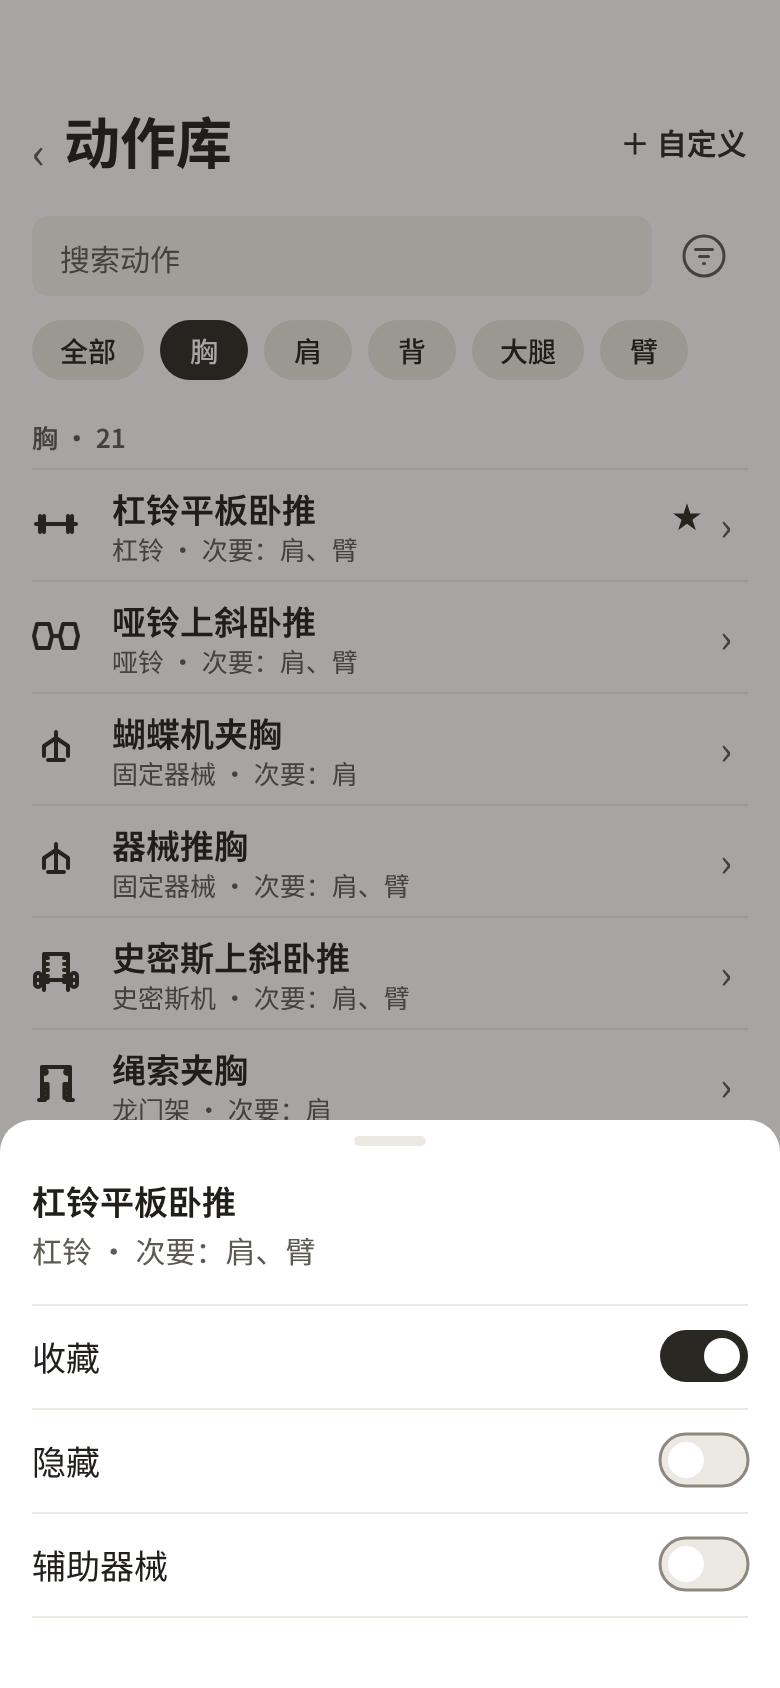
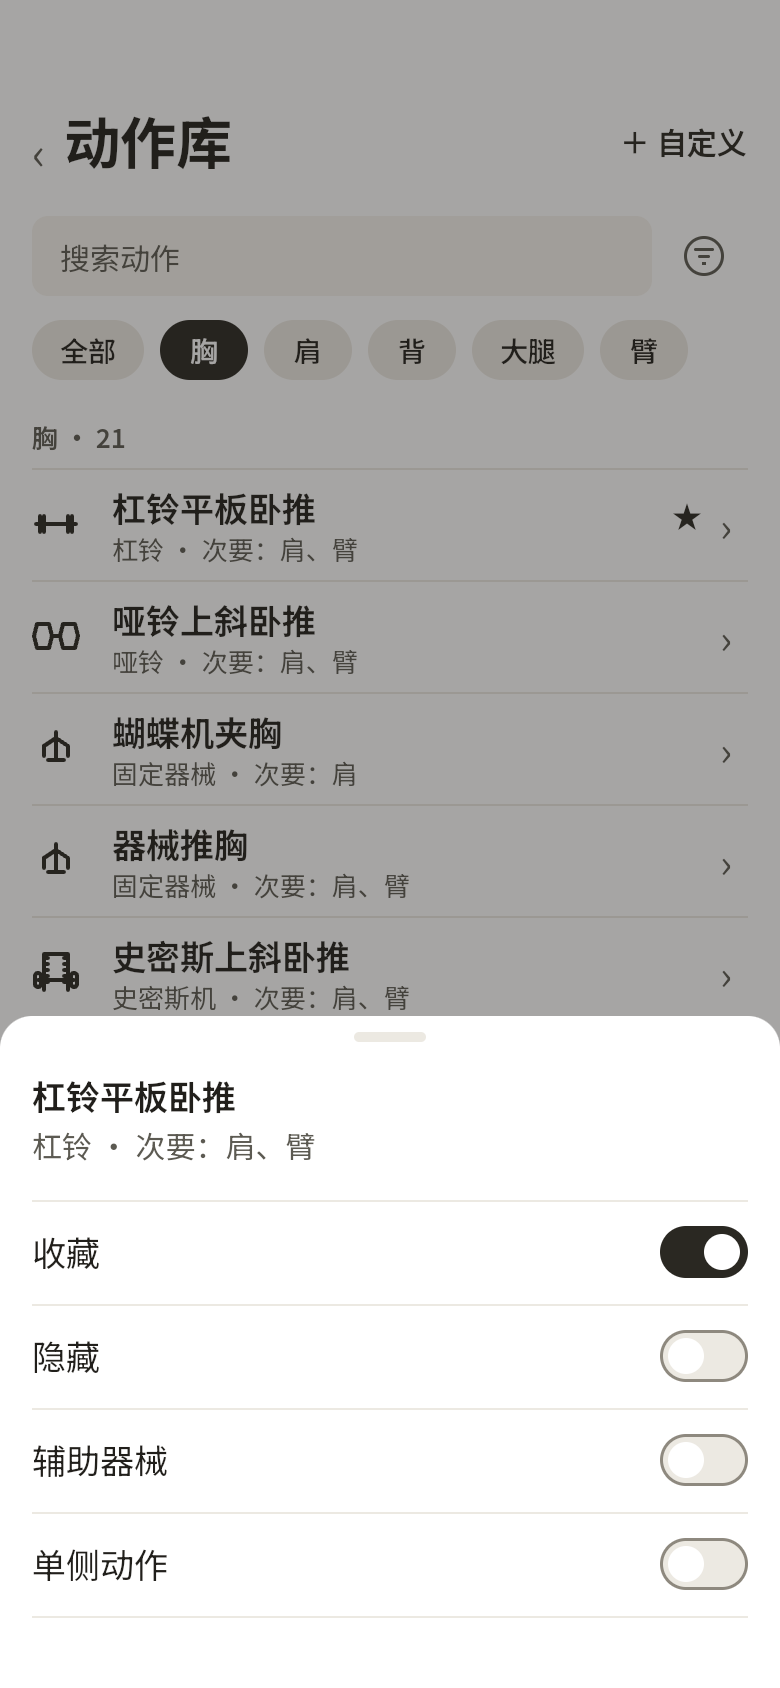
design(p7): backfill 单侧动作 on board 34 and drop ▾ from B-b section header (S1-D95, S1-D98)
Board 34 now shows the P0-D8 unilateral toggle row and a note that 编辑动作 is
custom-only; B-b's section header loses the ▾ that neither iOS nor Android
shows. Both PNGs re-exported at 2x; README and screens.md updated.

diff --git a/design/design-system/README.md b/design/design-system/README.md
@@ -48,7 +48,7 @@ Phase 6.5 人工审核（T063）发现 8 个核心界面需要结构调整，并
 | `28-share-settings-v2`、`29-share-preview` | D7 分享报告设置页（单次训练）与预览页。走查修订 2026-10-22（C15）：预览页卡片之后常驻整宽次按钮「完成」，点了回到今日页（Penpot `D7b-r`） | 取代 12 |
 | `30-training-v2`、`31-add-exercise-sheet` | D8 方案 B：「＋ 新建分区」就地入口；「应用模板」并入添加动作面板；「另存为模板」移到训练结束后的总结页 | 取代 11 |
 | `32-training-history-v2` | D9 训练历史筛选结果列表 | 取代 07 |
-| `33-exercise-filter-sheet`、`34-exercise-options-sheet` | T069c（2026-09-27 产品负责人选定「筛选面板」方案）：动作库搜索框右侧筛选图标 → 筛选面板（器械、显示已隐藏）；点动作行 → 动作选项面板（收藏 / 隐藏 / 辅助器械）。`20-exercise-library` 同步加上筛选图标并重新导出 | 补充 20 |
+| `33-exercise-filter-sheet`、`34-exercise-options-sheet` | T069c（2026-09-27 产品负责人选定「筛选面板」方案）：动作库搜索框右侧筛选图标 → 筛选面板（器械、显示已隐藏）；点动作行 → 动作选项面板（收藏 / 隐藏 / 辅助器械 / 单侧动作；「编辑动作」行只对自定义动作显示）。2026-11-13 回填（S1-D98）：34 补画 P0-D8「单侧动作」开关行（同辅助器械行结构，面板上移 52 pt），并在画板下方加状态说明后重新导出 2 倍图。`20-exercise-library` 同步加上筛选图标并重新导出 | 补充 20 |
 | `35-session-detail` | D12 训练记录（训练历史 → 点日期行；页头 2026-10-23 改为行内 `‹` + 页面内「训练记录」，§10 C18）：复用 `29-share-preview` 的分区（日期 / 标题 / 学员、三项统计、训练部位、动作每行 3 组、课后总结），不带页脚；下方「编辑训练重点 ›」「另存为模板 ›」操作行（另存为模板用底部面板命名）、只读说明，底部固定「生成训练报告」（2026-09-28 产品负责人反馈原页面像表格、字体不齐） | 补充 32 |
 | `36-new-package-stepper`、`37-manual-adjustment-stepper` | D13 数字步进器（2026-09-29 产品负责人批准方案 C「整体胶囊」，T064 发现新建课包「总课时数」与人工调整「课时数」仍为 iOS 系统 `Stepper`）；两页页头同时改为 `‹` + 页面内 `titleLarge`（与 04、训练趋势一致）。新建课包的开始 / 结束日期行与 02 相同：标签-值两栏行，值为 `body`「yyyy年M月d日」（课包有效期可能跨年，保留年份）+ `›`，点行在下方展开日历（2026-09-29 产品负责人审核时要求，快照 `D13a date row as 02 (value + ›) 2026-09-29`）。Penpot 快照 `before-D13-stepper 2026-09-29` → `D13 stepper capsule (option C) 2026-09-29`，画板 D13a、D13b | 新增 |
 | `38-backup-restore-v2` | D14 备份与恢复 v2（T071，2026-09-29）：08 原画稿把「密码 + 再次确认密码」画在「恢复」下，但设置并确认口令属于**导出**，恢复只需「选择备份文件」+ 一次口令；按功能摆放，其余照 08（页面内标题与副标题、导出 / 恢复分区与分割线、失败状态 `status.destructive` 文字 + 22×22「!」徽标 + 说明 + 居中「重试」）。恢复区直接显示，去掉原「从备份恢复」展开按钮与底部整宽「取消」（改用返回）。说明文字 `caption`，口令框为输入框（08）的遮蔽输入。快照 `before-T071-backup-v2 2026-09-29` → `T071 backup-restore v2 (D14) 2026-09-29` | 取代 08 |
@@ -129,6 +129,7 @@ Phase 6.5 人工审核（T063）发现 8 个核心界面需要结构调整，并
 - 阶段 E 集中走查（2026-10-27）：模拟器（iOS 26）上「…」弹出系统胶囊菜单，菜单偏大；真机（iOS 18）的灰色菜单也太大。训练页分区「…」的胶囊外观同源（iOS 26 系统 `Menu` 样式，代码自 2026-10-16 未变，不是回归）。负责人否决底部面板（多一步）和行内文字按钮（页面变乱），选左滑（§10 C27）。分类 B。
 - Penpot（Foundations 页）：快照 `before swipe revision (retire DS-MORE-MENU) 2026-10-27` → `swipe revision drawn: E-a1/E-a2/E-b/B-a/B-b/B-c + E-d 2026-10-27` → `swipe capsules redrawn to iOS 26 look (E-d, B-b) 2026-10-27`。E-a1、E-a2、E-b、B-a 去掉「…」；B-b 顶部改为「分区标题 · 左滑后」红色胶囊；B-c 页头去掉「…」，「管理」加「停用指标」行；新增 E-d（x=14410）：灰色「暂不提醒」胶囊、撤销行、首次轻推。B-b 其余三个左滑示例保持现状，不统一胶囊（负责人 2026-11-03 已裁定）。
 - 2 倍导出：E-a1 已由 `d0163ad` 入库；E-a2、E-b、E-d、B-a、B-b、B-c 已分别入库 `design/insights/screens/E-a2-insights-list.png`、`design/insights/screens/E-b-student-detail-insights.png`、`design/insights/screens/E-d-insights-swipe-snooze.png`、`design/experience-t2/screens/B-a-section-swipe-delete-confirm.png`、`design/experience-t2/screens/B-b-partial-states.png`、`design/experience-t2/screens/B-c-metric-history-manage.png`。本节其余画板的导出状态见 `screens.md`。
+- 2026-11-13 回填（S1-D95）：B-b「分区标题 · 左滑后」去掉标题前的「▾」（iOS 真机与 Android 均无此标识），重新导出 `design/experience-t2/screens/B-b-partial-states.png`。
 
 ### 1.13 阶段 F 系统入口画稿与实现回填（2026-10-28～29）
 

diff --git a/design/design-system/screens.md b/design/design-system/screens.md
@@ -31,7 +31,7 @@
 | SCR-RESOURCE-HUB | 资料库 | `design/m1-b-hifi/screens/19-resource-hub.png` | — | — | `ios/FineCoachApp/Features/ResourceHub/ResourceHubView.swift` | — | 已入库 2 倍 | README §1.2 |
 | SCR-EXERCISE-LIBRARY | 动作库 | `design/m1-b-hifi/screens/20-exercise-library.png` | `C2b-recent-group` 最近练过分组（`design/experience-t2/screens/C2b-recent-group.png`） | — | `ios/FineCoachApp/Features/ExerciseLibrary/ExerciseLibraryView.swift` | — | 已入库 2 倍 | README §1.2；experience-t2「Penpot 绘制」「第二轮」；components §4.3；`d0163ad` |
 | SCR-EXERCISE-FILTER | 动作筛选面板 | `design/m1-b-hifi/screens/33-exercise-filter-sheet.png` | — | — | `ios/FineCoachApp/Features/ExerciseLibrary/ExerciseLibraryView.swift` | — | 已入库 2 倍 | README §1.2 |
-| SCR-EXERCISE-OPTIONS | 动作选项面板 | `design/m1-b-hifi/screens/34-exercise-options-sheet.png` | P0-D8 单侧标记（文字批准来源；独立更新图未确认） | — | `ios/FineCoachApp/Features/ExerciseLibrary/ExerciseLibraryView.swift` | — | 基础已入库 2 倍；单侧选项图待确认 | README §1.2；P0「产品负责人决定（2026-10-15，训练页精简）」P0-D8 |
+| SCR-EXERCISE-OPTIONS | 动作选项面板 | `design/m1-b-hifi/screens/34-exercise-options-sheet.png` | P0-D8 单侧标记（2026-11-13 已补画进 34，S1-D98） | — | `ios/FineCoachApp/Features/ExerciseLibrary/ExerciseLibraryView.swift` | — | 基础与单侧动作行均已入库 2 倍 | README §1.2；P0「产品负责人决定（2026-10-15，训练页精简）」P0-D8 |
 | SCR-EXERCISE-CREATE | 新建自定义动作 | iOS 现有实现 + 组件规格（负责人 2026-11-03） | — | — | `ios/FineCoachApp/Features/ExerciseLibrary/CustomExerciseEditorView.swift` | — | —（不补画稿；已裁定 2026-11-03） | README §10 C20；`design/experience-t2/implementation-map.md` 「入口与布局清单」 |
 | SCR-TEMPLATE-LIST | 训练模板列表 | `design/m1-b-hifi/screens/05-training-template.png` | — | — | `ios/FineCoachApp/Features/Templates/TemplateListView.swift` | — | 已入库 2 倍 | README §1.1；`ios/FineCoachApp/Features/Templates/TemplateListView.swift:64` 明记 05 画稿 |
 | SCR-TEMPLATE-EDIT | 编辑训练模板 | iOS 现有实现 + 组件规格（负责人 2026-11-03） | `design/experience-t2/screens/B-b-partial-states.png` / C27 左滑交互修订 | `design/experience-t2/boards/B-b-partial-states@1x.png` 已被 B-b 2 倍图取代 | `ios/FineCoachApp/Features/Templates/TemplateEditorView.swift` | — | —（不补画稿；已裁定 2026-11-03） | README §1.1、§1.12；`design/experience-t2/decisions.md`；`design/experience-t2/implementation-map.md` |
